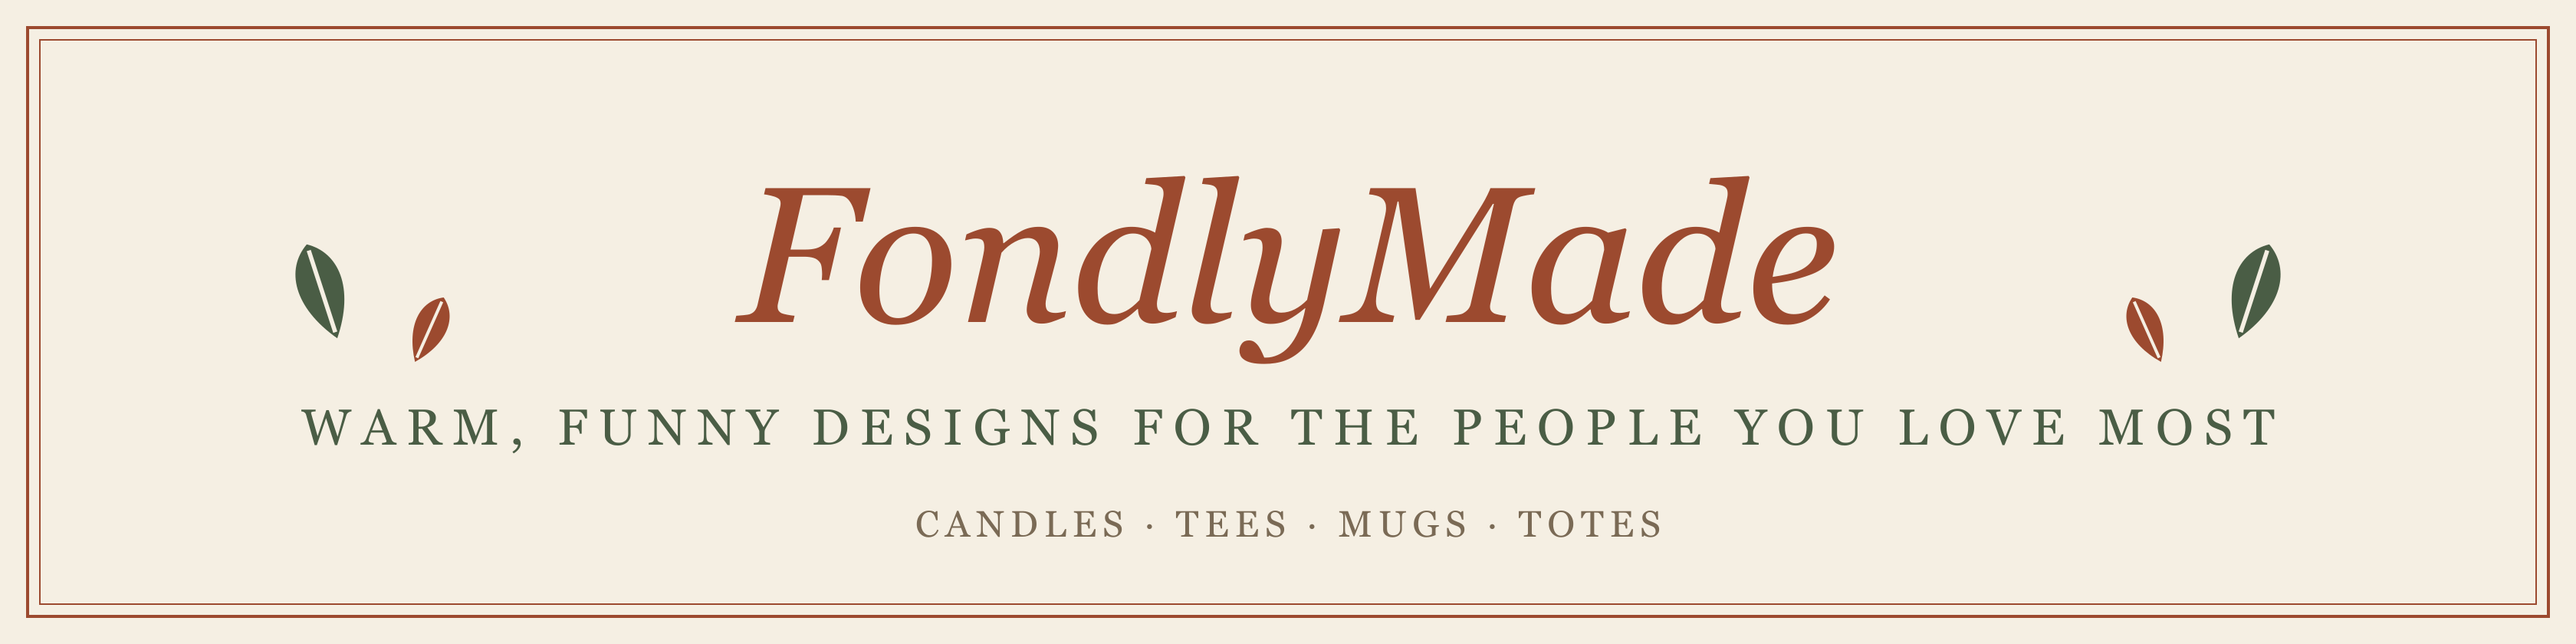
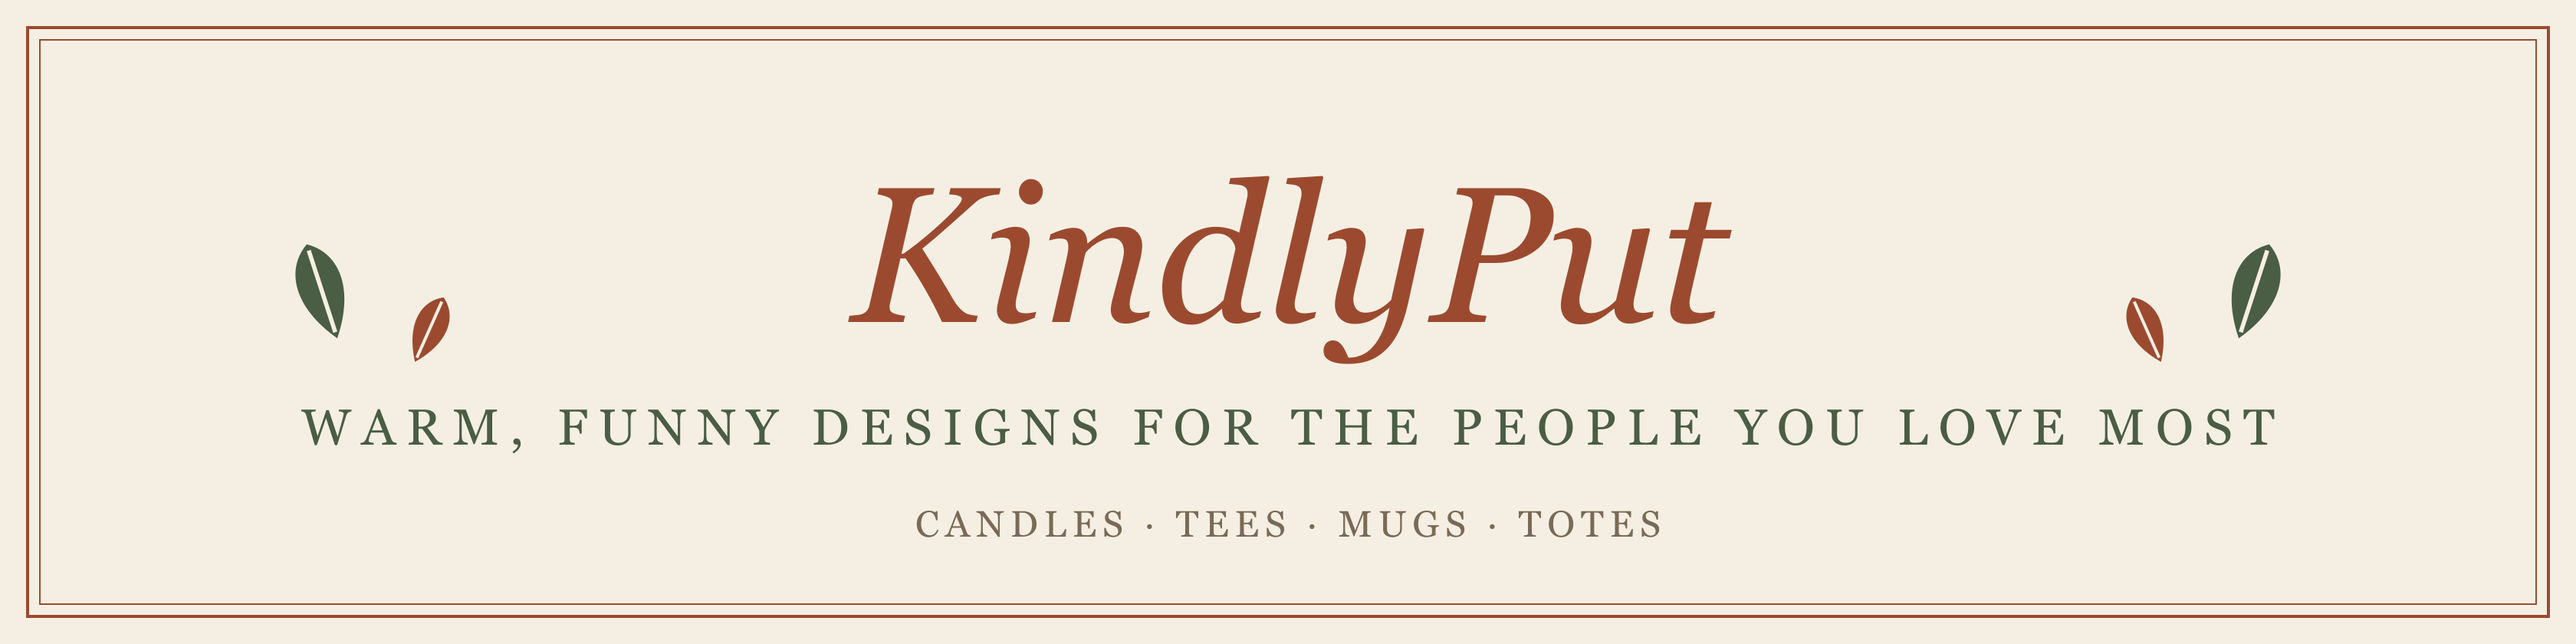
Shop name is KindlyPut: FondlyMade was taken
Etsy reports FondlyMade unavailable, which is why the shop registered as
KindlyPut in the first place. Rather than burn one of five remaining name
changes chasing a third name, the system now matches the storefront.

One config value drives it: shop_name -> KindlyPut, regenerate, then
etsy-sync --write pushed corrected descriptions to all 34 LIVE listings
in place - 34 updated, 0 failed. No republish, so the Etsy listing ids and
whatever history they carry survive. Verified on the live listing: "Original
design by KindlyPut", zero FondlyMade remaining.

Brand assets redrawn as the same monogram concept with kp, and SHOP-COPY,
OPERATOR-60-SECONDS and LAUNCH-PLAYBOOK updated including the Share & Save
link (kindlyput.etsy.com - the old one would have earned nothing).

Also fixed, found when the token expired mid-session: config.mjs parses
.env once at module load, so a token written to disk during a run stayed
invisible to env(). The 401-refresh-retry path refreshed correctly, wrote
the new token, then retried with the dead one. etsy.mjs now holds the live
token in memory and prefers it over the file.

Measured before advising on the rename: 0 views, 0 favorites, 0 reviews
across 34 listings at 2.7 hours old. Nothing in the query-specific
engagement loop yet, so the rename cost nothing - and would not have been
free in a month.

Claude-Session: https://claude.ai/code/session_01MhuGvuwZNqGWJAv8gZmD9x

Changed region(s): [[0.2812, 0.2476, 0.7188, 0.5881]]

diff --git a/ops/SHOP-COPY.md b/ops/SHOP-COPY.md
@@ -1,4 +1,4 @@
-# FondlyMade — shop copy to paste into Etsy
+# KindlyPut — shop copy to paste into Etsy
 
 ## Brand assets (ops/brand/)
 
@@ -6,7 +6,7 @@
 - `banner-3360x840.png` — big banner. Same page → Banner → Big banner.
 
 Same visual language as the candle labels on purpose: cream stock,
-terracotta double ring, candle-flame F. Shop and product read as one hand.
+terracotta ground, cream italic monogram. Shop and product read as one hand.
 
 ## Shop title (Info & Appearance → Shop title, 55-char limit)
 
@@ -24,7 +24,7 @@ must route problems to photos-first replacement, not open-ended returns.
 Warm, funny designs for the people you love most
 
 **Story:**
-FondlyMade makes small-batch designs for the people who hold everything
+KindlyPut makes small-batch designs for the people who hold everything
 together — teachers, nurses, dog moms, grandmas, and dads of daughters. Every
 design starts in our studio, where we sketch, refine, and letter each piece
 with the help of modern AI design tools under our creative direction, then
@@ -53,6 +53,6 @@ message the same day — message response rate is a search ranking input.
 
 ## Share & Save link (use EVERYWHERE off-Etsy)
 
-https://fondlymade.etsy.com
+https://kindlyput.etsy.com
 Links inside Etsy Messages or listing descriptions earn nothing — only
 external clicks qualify for the 4% refund.

diff --git a/ops/LAUNCH-PLAYBOOK.md b/ops/LAUNCH-PLAYBOOK.md
@@ -1,4 +1,4 @@
-# Etsy launch playbook — FondlyMade
+# Etsy launch playbook — KindlyPut (FondlyMade was taken)
 
 Distilled from the 2026-07-29 deep-research run (106 agents, 24+ sources, every
 claim 3-vote adversarially verified; 9 findings survived, 0 refuted). Sources
@@ -64,7 +64,7 @@ order total incl. shipping/gift wrap, pre-tax. Last-click attribution; links
 never expire; an Offsite-Ads last click disqualifies (we are opted out).
 **Links inside Etsy Messages or listing descriptions earn nothing** — only
 externally-driven traffic counts. Implication: every link we ever post
-anywhere off-Etsy should be the fondlymade.etsy.com form.
+anywhere off-Etsy should be the kindlyput.etsy.com form.
 
 ## The documented worst case: payment reserve on the FIRST sale
 
@@ -232,7 +232,7 @@ Deliberate NON-changes, with reasons:
   those slots are ammunition for the winner.
 
 Standing operational rules (from verified findings):
-- Use fondlymade.etsy.com links exclusively for any external posting.
+- Use kindlyput.etsy.com links exclusively for any external posting.
 - Answer every buyer message same-day — response rate is a ranking input.
 - Expect a possible reserve on sale #1; tracking releases it; keep a small
   float for early Printify costs.

diff --git a/ops/OPERATOR-60-SECONDS.md b/ops/OPERATOR-60-SECONDS.md
@@ -11,7 +11,7 @@ flagged this network's IP once today.
 
 Paste this:
 
-FondlyMade makes small-batch designs for the people who hold everything
+KindlyPut makes small-batch designs for the people who hold everything
 together - teachers, nurses, dog moms, grandmas, and dads of daughters.
 Every design starts in our studio, where we sketch, refine, and letter each
 piece with the help of modern AI design tools under our creative direction,
